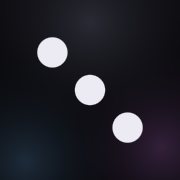
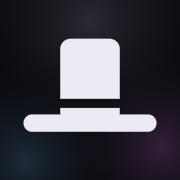
Rename the app to Hat
Roll named a die, which stopped being true once it could pick an animal, a
colour or a class roster. Hat carries the metaphor the app already implements:
what comes out of a hat does not go back in, which is the repeat toggle.

The mark changes with it — a top hat with its band, drawn once in
scripts/make-icons.mjs and mirrored in the SVG favicon.

Changed region(s): [[0.1111, 0.1944, 0.8889, 0.8056]]

diff --git a/index.html b/index.html
@@ -5,7 +5,7 @@
     <!-- viewport-fit=cover so the safe-area insets have something to report against,
          which is what keeps the header clear of the notch once installed. -->
     <meta name="viewport" content="width=device-width, initial-scale=1.0, viewport-fit=cover" />
-    <title>Roll</title>
+    <title>Hat</title>
     <meta name="description" content="A simple random picker." />
 
     <link rel="manifest" href="/manifest.webmanifest" />
@@ -16,7 +16,7 @@
     <meta name="apple-mobile-web-app-capable" content="yes" />
     <meta name="mobile-web-app-capable" content="yes" />
     <meta name="apple-mobile-web-app-status-bar-style" content="black-translucent" />
-    <meta name="apple-mobile-web-app-title" content="Roll" />
+    <meta name="apple-mobile-web-app-title" content="Hat" />
 
     <link rel="icon" type="image/svg+xml" href="/favicon.svg" />
     <link rel="icon" type="image/png" sizes="192x192" href="/icon-192.png" />

diff --git a/src/App.tsx b/src/App.tsx
@@ -133,7 +133,7 @@ export default function App() {
   return (
     <div className="app">
       <header className="app-header">
-        <h1 className="app-title">Roll</h1>
+        <h1 className="app-title">Hat</h1>
         <button
           className="icon-button"
           onClick={() => {
